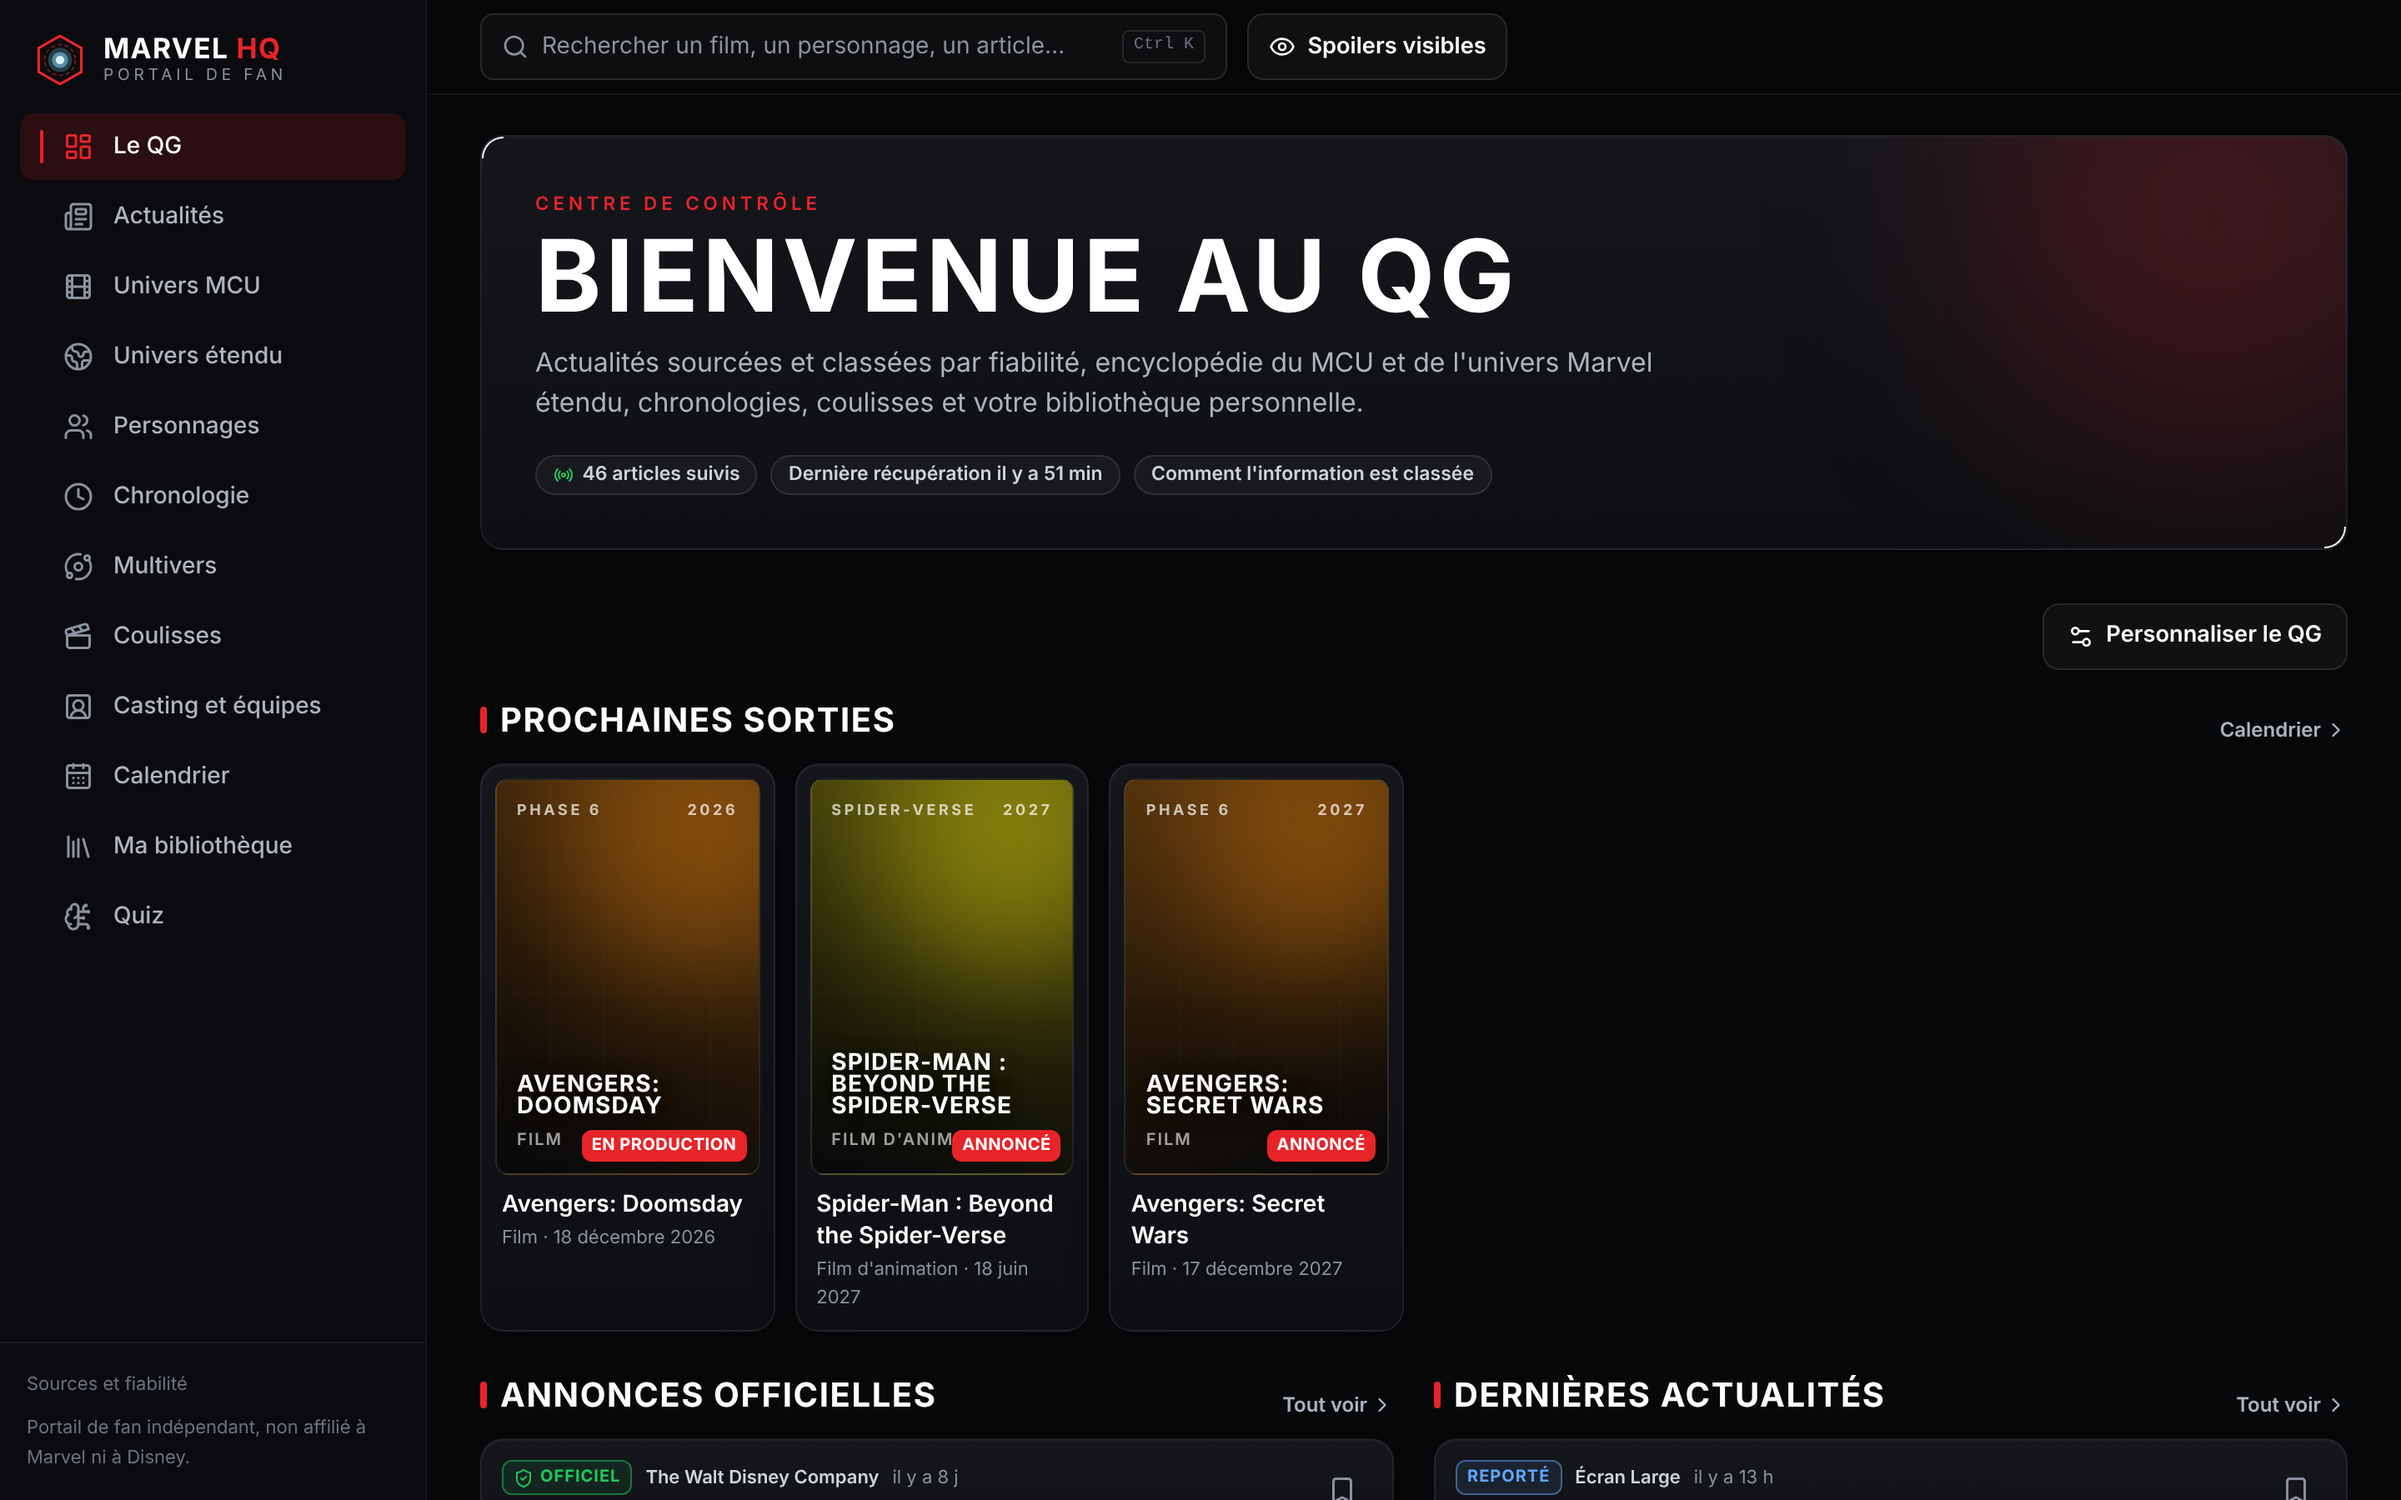
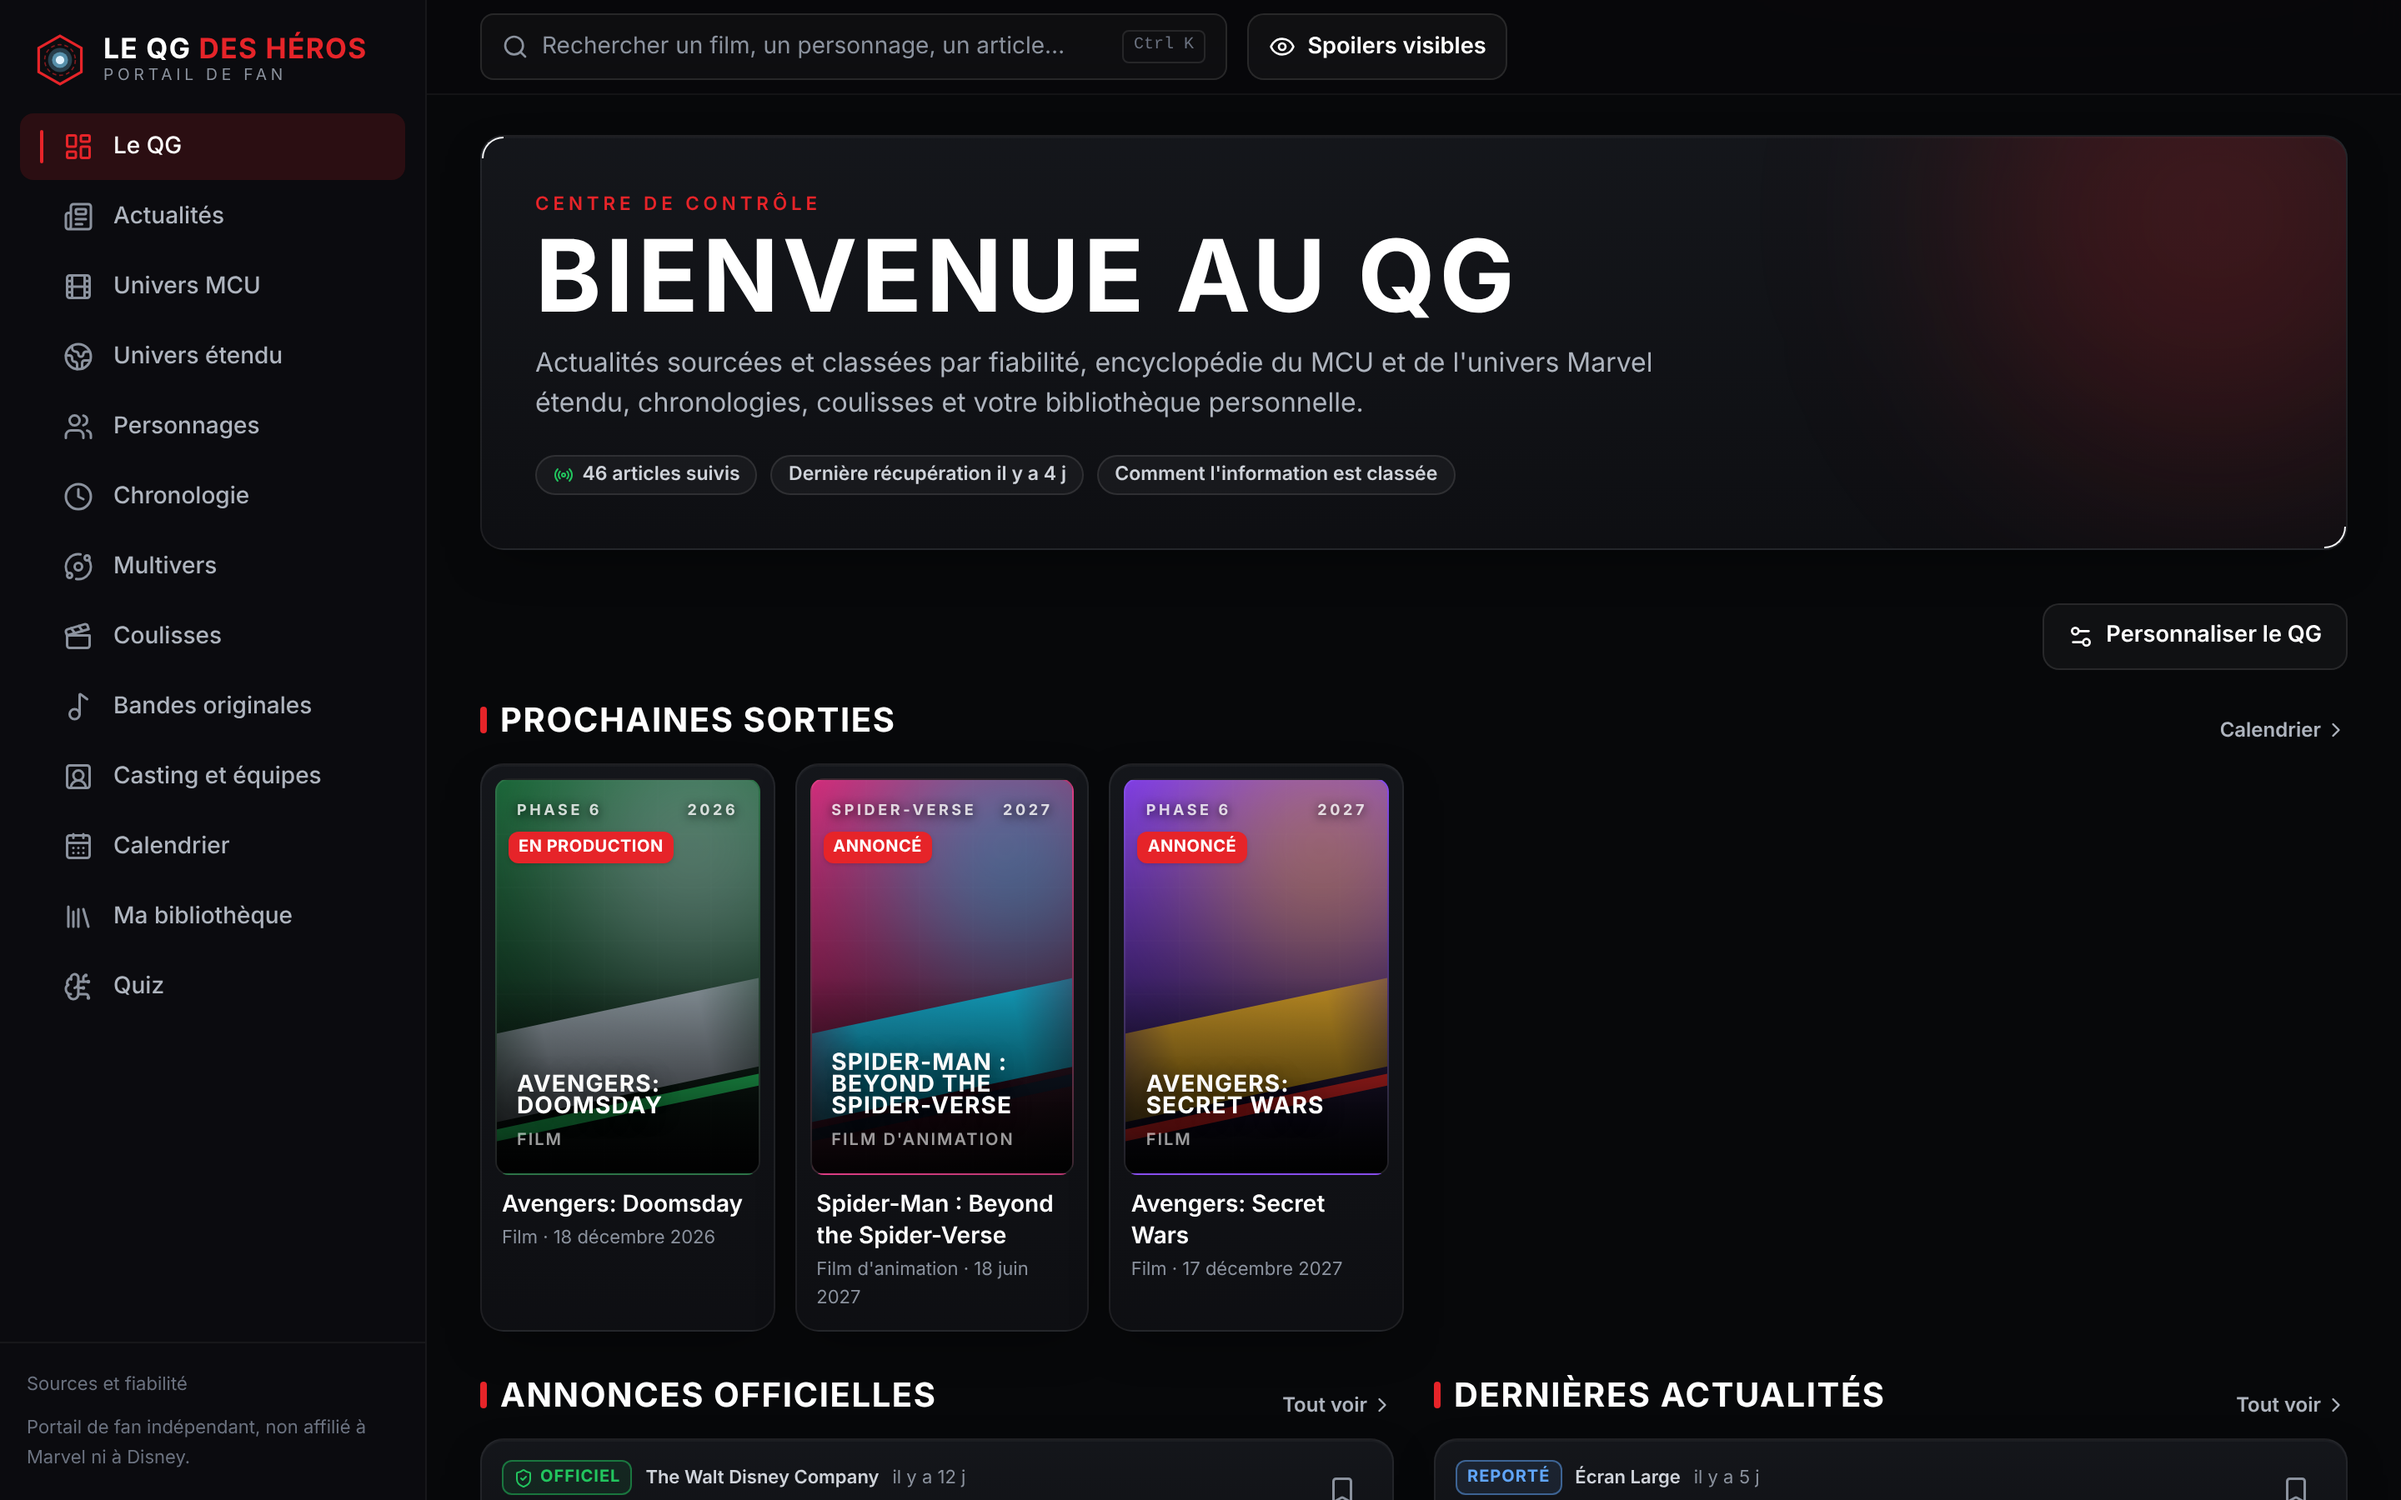
Renommage : MARVEL HQ devient « Le QG des Héros » ; badge de statut des affiches repositionné
Claude-Session: https://claude.ai/code/session_01Ab5VS6h9f4ysKTWPpfP6PP

diff --git a/src/components/Shell.tsx b/src/components/Shell.tsx
@@ -64,7 +64,7 @@ export function Shell({ children }: { children: React.ReactNode }) {
       {/* Barre latérale (desktop) */}
       <aside className="sticky top-0 hidden h-dvh w-64 shrink-0 flex-col border-r border-white/5 bg-ink-900/80 backdrop-blur lg:flex">
         <div className="px-5 pt-5 pb-4">
-          <Link href="/" aria-label="MARVEL HQ — accueil">
+          <Link href="/" aria-label="Le QG des Héros — accueil">
             <Logo />
           </Link>
         </div>
@@ -88,7 +88,7 @@ export function Shell({ children }: { children: React.ReactNode }) {
             <button
               onClick={() => setSearch(true)}
               className="flex h-10 min-w-0 flex-1 items-center gap-2 rounded-lg border border-white/10 bg-white/[0.03] px-3 text-left text-sm text-steel-400 transition hover:border-white/20 md:max-w-md"
-              aria-label="Rechercher dans MARVEL HQ"
+              aria-label="Rechercher dans le QG des Héros"
             >
               <Search className="h-4 w-4" />
               <span className="truncate"><span className="sm:hidden">Rechercher…</span><span className="hidden sm:inline">Rechercher un film, un personnage, un article…</span></span>

diff --git a/src/app/equipes/page.tsx b/src/app/equipes/page.tsx
@@ -24,7 +24,7 @@ export default async function PeoplePage({ searchParams }: { searchParams: Promi
 
   return (
     <div className="mx-auto max-w-6xl">
-      <PageHeader eyebrow="Professionnels" title="Casting et équipes" intro="Acteurs, réalisateurs, scénaristes, compositeurs, monteurs, chefs opérateurs… Chaque fiche liste les crédits enregistrés dans MARVEL HQ (non exhaustifs : uniquement des crédits vérifiables, sur les productions référencées)." />
+      <PageHeader eyebrow="Professionnels" title="Casting et équipes" intro="Acteurs, réalisateurs, scénaristes, compositeurs, monteurs, chefs opérateurs… Chaque fiche liste les crédits enregistrés dans le QG des Héros (non exhaustifs : uniquement des crédits vérifiables, sur les productions référencées)." />
       <div className="no-scrollbar panel mb-6 flex gap-1.5 overflow-x-auto p-3">
         <FilterLink href="/equipes" active={!role}>Tous ({all.length})</FilterLink>
         {ROLES.filter((r) => counts.get(r)).map((r) => <FilterLink key={r} href={`/equipes?role=${r}`} active={role === r}>{ROLE_LABELS[r]} ({counts.get(r)})</FilterLink>)}

diff --git a/src/components/Logo.tsx b/src/components/Logo.tsx
@@ -1,4 +1,4 @@
-/** Emblème original MARVEL HQ (aucun logo officiel Marvel n'est utilisé ni modifié). */
+/** Emblème original du QG des Héros (aucun logo officiel Marvel n'est utilisé ni modifié). */
 export function Logo({ compact = false }: { compact?: boolean }) {
   return (
     <span className="flex items-center gap-2.5 select-none">
@@ -11,7 +11,7 @@ export function Logo({ compact = false }: { compact?: boolean }) {
       </svg>
       {!compact && (
         <span className="leading-none">
-          <span className="display block text-[1.05rem] text-white">Marvel <span className="text-hq-red">HQ</span></span>
+          <span className="display block text-[1.05rem] text-white">Le QG <span className="text-hq-red">des Héros</span></span>
           <span className="block text-[0.6rem] tracking-[0.25em] text-steel-400 uppercase mt-0.5">Portail de fan</span>
         </span>
       )}

diff --git a/src/app/layout.tsx b/src/app/layout.tsx
@@ -3,9 +3,9 @@ import "./globals.css";
 import { Shell } from "@/components/Shell";
 
 export const metadata: Metadata = {
-  title: { default: "MARVEL HQ — Le QG des fans de l'univers Marvel", template: "%s · MARVEL HQ" },
+  title: { default: "Le QG des Héros — portail de fan de l'univers Marvel", template: "%s · Le QG des Héros" },
   description: "Portail de fan indépendant : actualités sourcées, encyclopédie du MCU et de l'univers Marvel, chronologies, coulisses, calendrier et bibliothèque personnelle.",
-  applicationName: "MARVEL HQ",
+  applicationName: "Le QG des Héros",
   robots: { index: false, follow: false }, // portail personnel : non indexé tant que la publication n'est pas décidée
   icons: { icon: "/icon.svg" },
 };

diff --git a/src/components/ProductionCard.tsx b/src/components/ProductionCard.tsx
@@ -15,7 +15,7 @@ export function ProductionCard({ p, posterUrl, showOrder }: { p: Production; pos
           <span className="absolute top-2 left-2 rounded-md bg-black/70 px-1.5 py-0.5 text-[11px] font-bold text-white">#{showOrder}</span>
         )}
         {p.status !== "sorti" && (
-          <span className="absolute right-2 bottom-2 rounded-md bg-hq-red px-1.5 py-0.5 text-[10px] font-bold tracking-wide text-white uppercase">{STATUS_LABELS[p.status]}</span>
+          <span className="absolute top-8 left-2 rounded-md bg-hq-red px-1.5 py-0.5 text-[10px] font-bold tracking-wide text-white uppercase shadow">{STATUS_LABELS[p.status]}</span>
         )}
         <WatchedDot id={p.id} />
       </div>

diff --git a/src/app/sources/page.tsx b/src/app/sources/page.tsx
@@ -21,7 +21,7 @@ export default async function SourcesPage() {
 
   return (
     <div className="mx-auto max-w-5xl space-y-10">
-      <PageHeader eyebrow="Transparence" title="Sources et fiabilité" intro="Comment MARVEL HQ récupère, classe et vérifie l'information. Aucune information n'est inventée : chaque contenu renvoie à sa source." />
+      <PageHeader eyebrow="Transparence" title="Sources et fiabilité" intro="Comment le QG des Héros récupère, classe et vérifie l'information. Aucune information n'est inventée : chaque contenu renvoie à sa source." />
 
       <section>
         <SectionTitle title="Classification des actualités" />

diff --git a/src/lib/ingest/run.ts b/src/lib/ingest/run.ts
@@ -56,7 +56,7 @@ export function robotsDisallows(robotsTxt: string): string[] {
     const value = rest.join(":").trim();
     if (key === "user-agent") {
       if (sawRule) { applies = false; sawRule = false; }
-      if (value === "*" || /marvelhq/i.test(value)) applies = true;
+      if (value === "*" || /qgdesheros/i.test(value)) applies = true;
     } else if (key === "disallow" || key === "allow") {
       sawRule = true;
       if (applies && key === "disallow" && value) out.push(value);

diff --git a/src/app/bibliotheque/view.tsx b/src/app/bibliotheque/view.tsx
@@ -48,7 +48,7 @@ export function LibraryView({ productions, characters }: { productions: P[]; cha
     const blob = new Blob([exportLibrary()], { type: "application/json" });
     const a = document.createElement("a");
     a.href = URL.createObjectURL(blob);
-    a.download = `marvelhq-bibliotheque-${new Date().toISOString().slice(0, 10)}.json`;
+    a.download = `qg-des-heros-bibliotheque-${new Date().toISOString().slice(0, 10)}.json`;
     a.click();
     URL.revokeObjectURL(a.href);
   };

diff --git a/src/app/equipes/[id]/page.tsx b/src/app/equipes/[id]/page.tsx
@@ -75,7 +75,7 @@ export default async function PersonPage({ params }: { params: Params }) {
           </section>
         )}
       </div>
-      <p className="mt-8 text-xs text-steel-500">Crédits issus des fiches de productions de MARVEL HQ (chacune liée à ses sources). Liste non exhaustive.</p>
+      <p className="mt-8 text-xs text-steel-500">Crédits issus des fiches de productions du QG des Héros (chacune liée à ses sources). Liste non exhaustive.</p>
     </div>
   );
 }

diff --git a/src/data/sources.ts b/src/data/sources.ts
@@ -124,4 +124,4 @@ export const NEWS_SOURCES: NewsSource[] = [
 ];
 
 export const USER_AGENT =
-  "MarvelHQ/0.1 (portail de fan personnel, non commercial; lecture de flux RSS publics)";
+  "QGdesHeros/0.1 (portail de fan personnel, non commercial; lecture de flux RSS publics)";

diff --git a/src/lib/types.ts b/src/lib/types.ts
@@ -1,5 +1,5 @@
 /**
- * Modèle de domaine de MARVEL HQ.
+ * Modèle de domaine du QG des Héros.
  *
  * Principe éditorial : toute donnée factuelle doit pouvoir être reliée à une source
  * et à une date de vérification. Les champs inconnus restent `undefined` — on

diff --git a/docs/DEPLOIEMENT.md b/docs/DEPLOIEMENT.md
@@ -20,7 +20,7 @@
 
 ### 3. Planification
 - `vercel.json` déclare un cron **quotidien** (limite de l'offre Hobby). Vercel envoie automatiquement `Authorization: Bearer $CRON_SECRET`.
-- Pour une fréquence **horaire** gratuite : dans GitHub → *Settings → Secrets and variables → Actions*, créer `MARVELHQ_URL` (ex. `https://votre-app.vercel.app`) et `CRON_SECRET`. Le workflow `.github/workflows/ingest.yml` s'exécute alors chaque heure (il ne fait rien tant que ces secrets sont absents).
+- Pour une fréquence **horaire** gratuite : dans GitHub → *Settings → Secrets and variables → Actions*, créer `QGDESHEROS_URL` (ex. `https://votre-app.vercel.app`) et `CRON_SECRET`. Le workflow `.github/workflows/ingest.yml` s'exécute alors chaque heure (il ne fait rien tant que ces secrets sont absents).
 - La durée d'une ingestion (8 sources) est d'environ 10 à 30 s ; la route autorise 60 s.
 
 ### 4. Affiches (optionnel)
